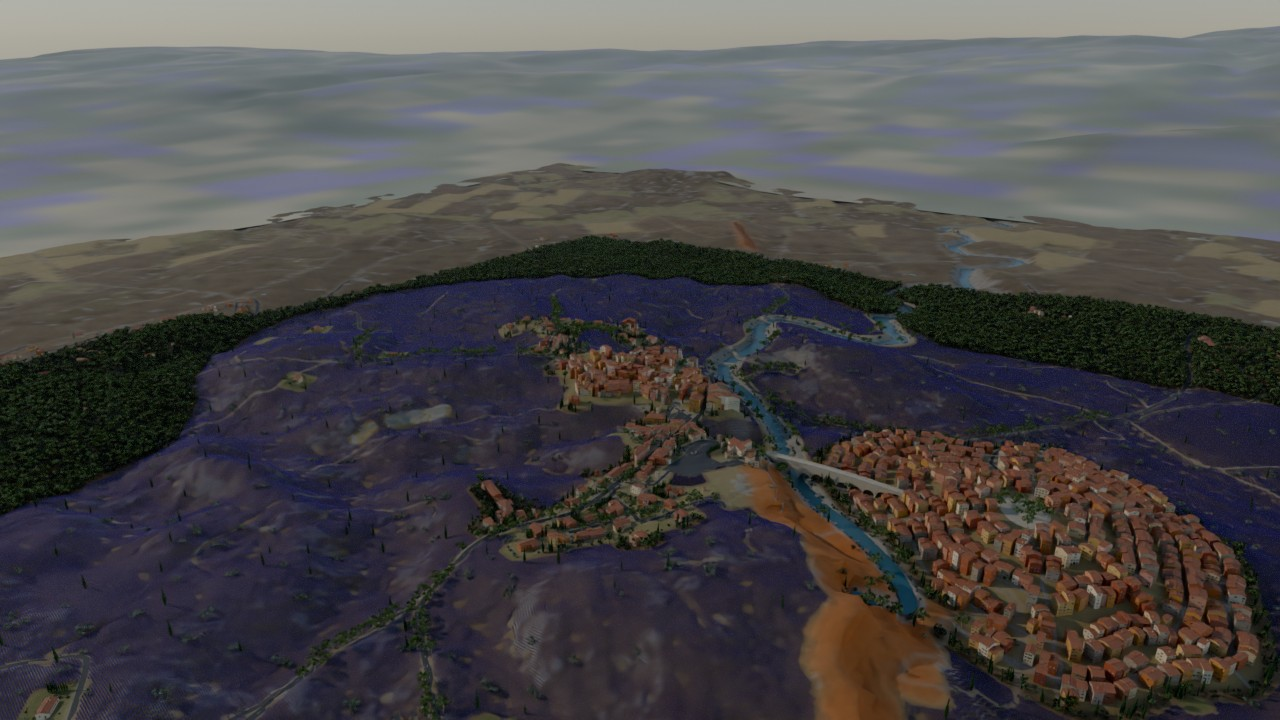
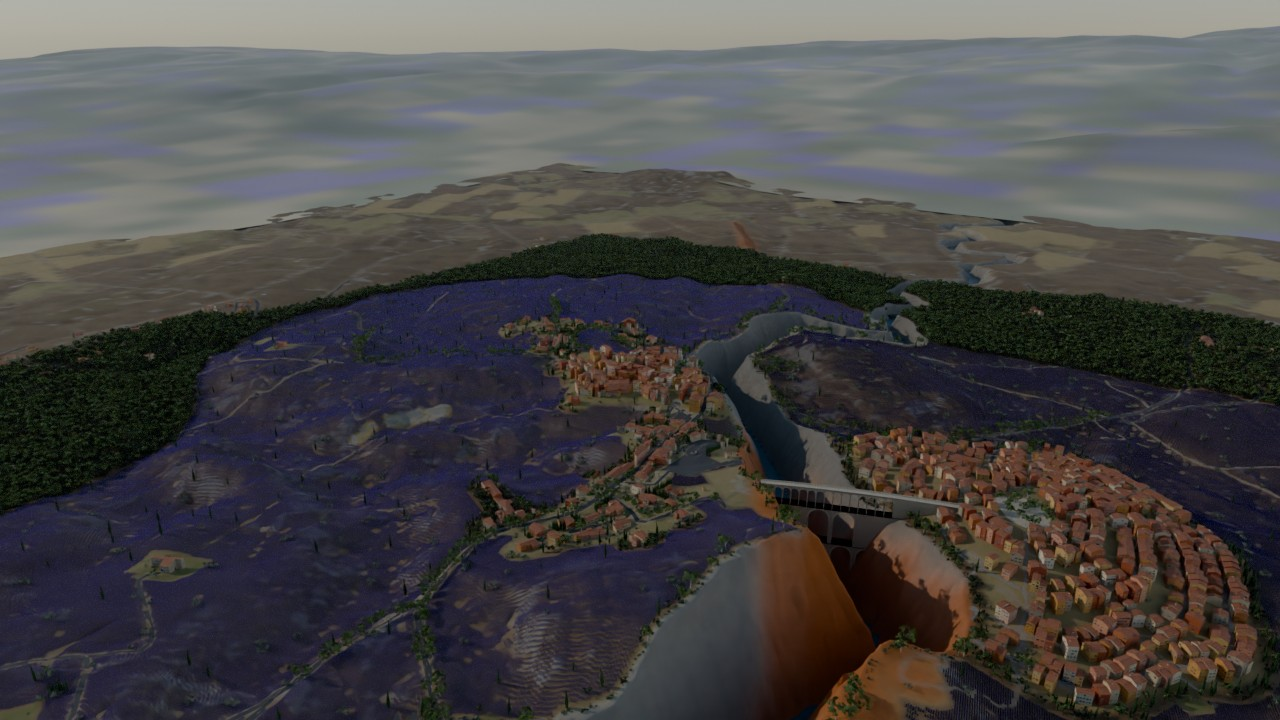
Aperçus : gorges et viaduc du Pont des Ocres
Claude-Session: https://claude.ai/code/session_01MVWCzaqNWTQZ4ZJYpCZv4k

diff --git a/Tools/VillageProvence/render_views.py b/Tools/VillageProvence/render_views.py
@@ -20,7 +20,8 @@ _V = {
     "aerien_village": ((250, -310, 210), (-15, 20, 5), 30),
     "aerien_ceinture": ((620, -900, 480), (-80, 30, 0), 24),
     "quartier_ocres": ((585.2, -115.3, 1.7), (579.6, -85.8, 3.0), 22),
-    "grand_pont": ((203.7, -47.6, 4.2), (238.0, -95.0, 9.0), 22),
+    "grand_pont": ((228.6, -82.8, 8.3), (304.7, -154.2, 52.0), 20),
+    "gorges": ((150.0, -40.0, 28.0), (304.7, -154.2, 58.0), 24),
     "mas_lavande": ((-470, 40, 2.0), (-330, -10, 10), 30),
     "lavande_village": ((-360, 290, 1.8), (-60, 80, 14), 30),
     "place": ((-8.5, 16.0, 1.65), (6, 6, 2.5), 20),

diff --git a/Plugins/VillageProvence/README.md b/Plugins/VillageProvence/README.md
@@ -30,7 +30,9 @@ Un village provençal complet de **4 × 4 km**, construit sur le **plan réel de
 | **Intérieurs** | 135 bâtiments visitables : 105 maisons (à étage, de plain-pied, sur 3 niveaux avec colimaçon), 28 commerces, la mairie et l'église ; 8 ambiances ; portes qui s'ouvrent. |
 | **Parkour** | Planches entre les toits, échelles, échafaudages, caisses, balcons praticables. |
 
-![Le Pont des Ocres vu depuis la rivière](Docs/grand_pont.jpg)
+![Le Pont des Ocres au-dessus des gorges](Docs/gorges.jpg)
+
+![Le Pont des Ocres vu depuis le fond des gorges](Docs/grand_pont.jpg)
 
 ![Une ruelle du quartier des Ocres](Docs/quartier_ocres.jpg)
 
